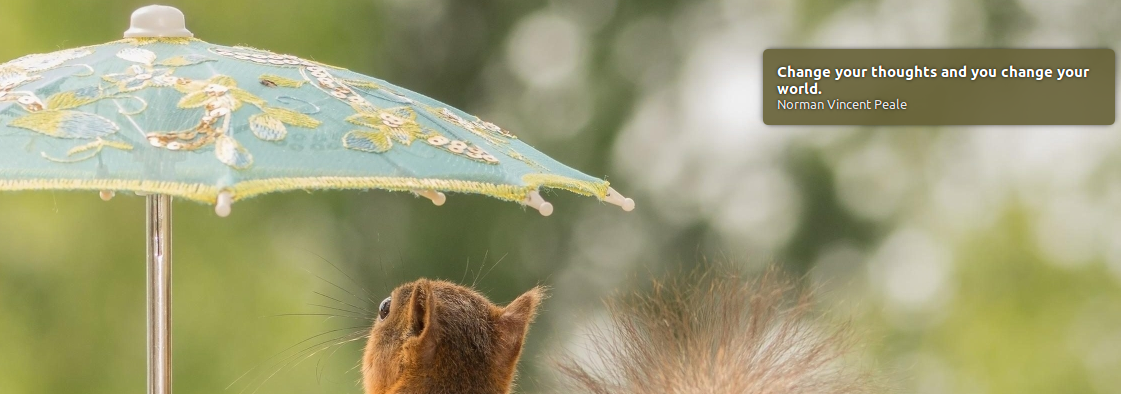
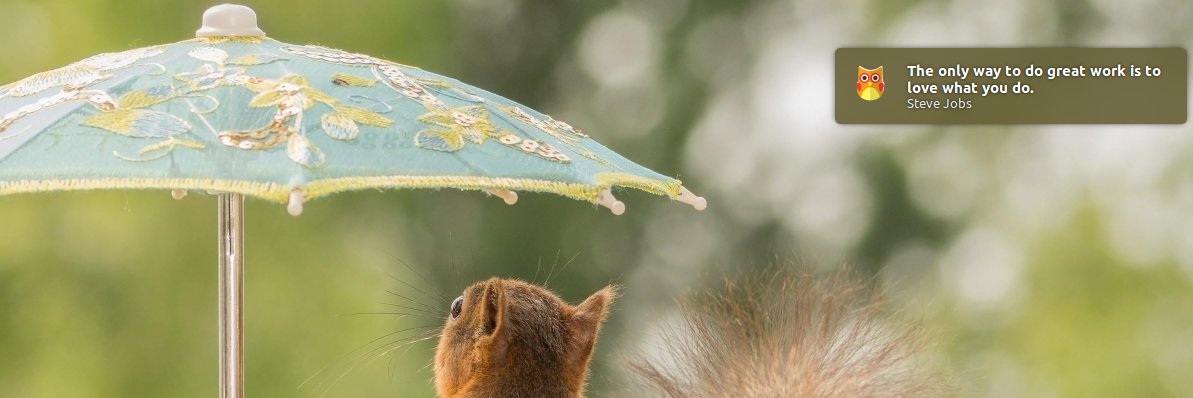
New version

diff --git a/muse.py b/muse.py
@@ -1,6 +1,7 @@
 #!/usr/bin/python3
 
-import subprocess as s, random, ast
+from gi.repository import Notify, GdkPixbuf
+import time, random, ast
 
 def main():
     with open('/usr/share/muse/quotes.txt', 'r') as f:
@@ -9,7 +10,16 @@ def main():
 
     quote, author = ast.literal_eval(data[random.randint(0,len(data))])
 
-    s.call(['notify-send', quote, author]) # Show quote as notification
+    Notify.init("muse")
+    notification = Notify.Notification.new(quote, author)
+
+    image = GdkPixbuf.Pixbuf.new_from_file("/usr/share/muse/img/%s.png" % random.randint(1, 6))
+
+    notification.set_icon_from_pixbuf(image)
+    notification.set_image_from_pixbuf(image)
+
+    time.sleep(3)
+    notification.show()
 
 if __name__ == '__main__':
     main()
